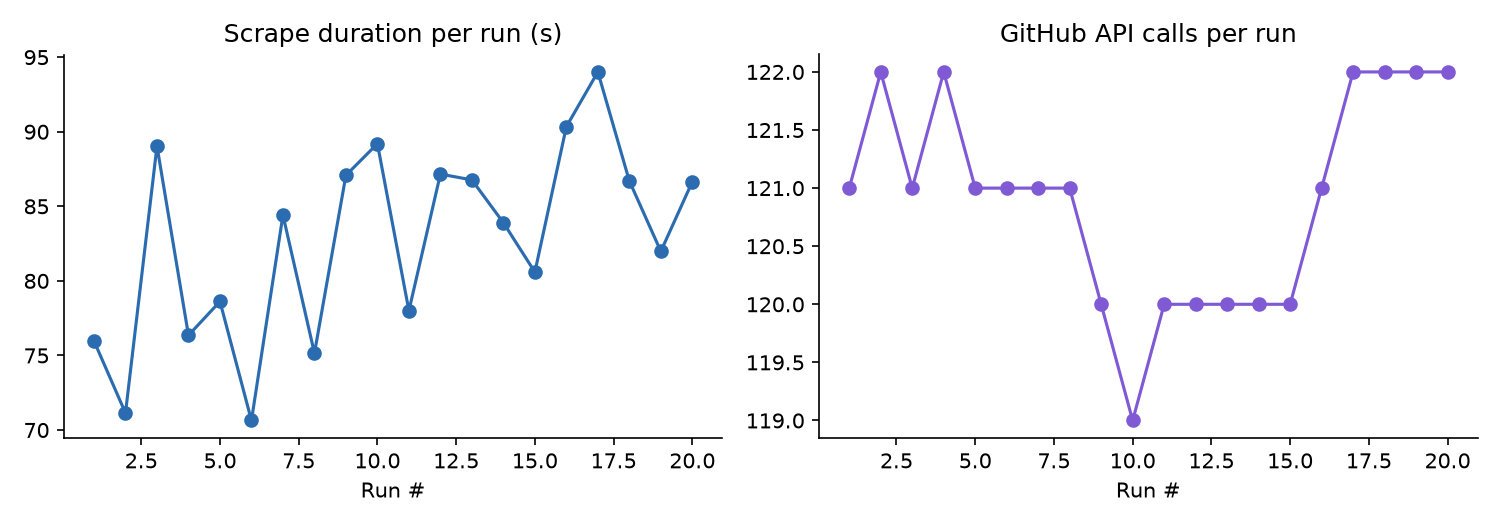
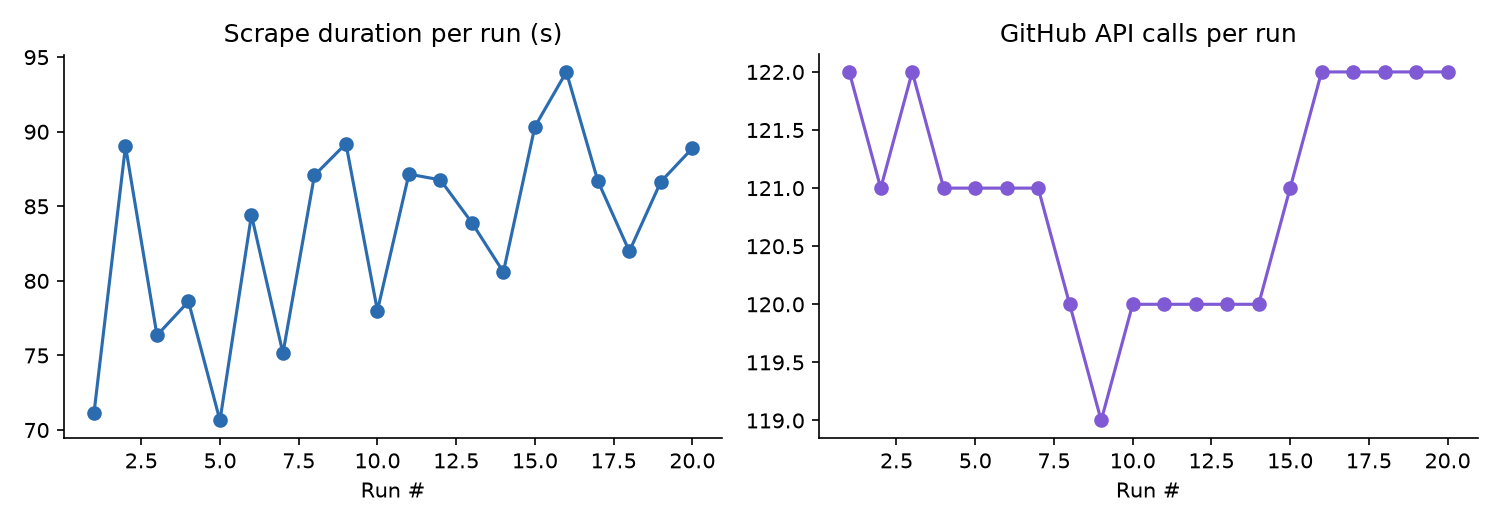
Weekly issue tracker refresh

diff --git a/README.md b/README.md
@@ -81,7 +81,7 @@ See [CONTRIBUTING.md](CONTRIBUTING.md) for the full contributor workflow — inc
 
 <!-- TRACKER:START -->
 
-_Last updated: 2026-11-05 11:34 UTC_
+_Last updated: 2026-11-05 18:56 UTC_
 
 _Tracking **18** upstream repos, **371** relevant open issues._
 
@@ -137,14 +137,14 @@ _Tracking **18** upstream repos, **371** relevant open issues._
 
 | Score | Issue | Labels | Comments | Updated |
 |---|---|---|---|---|
+| ★★☆☆☆ | [#87880](https://github.com/ansible/ansible/issues/87880) `ansible-test sanity --docker --test pylint` crashes on community.general | bug | 3 | 2026-11-05 |
 | ★★☆☆☆ | [#87881](https://github.com/ansible/ansible/issues/87881) ansible.builtin.git: 'NoneType' object has no attribute 'startswith' | module, needs_triage, bug, has_pr, affects_2.21 | 3 | 2026-11-05 |
 | ★★☆☆☆ | [#87031](https://github.com/ansible/ansible/issues/87031) 2.21.0 regresses in sandboxed environments that block Unix-domain socket creation | bug, has_pr, P3, affects_2.21 | 3 | 2026-11-05 |
-| ★★☆☆☆ | [#87880](https://github.com/ansible/ansible/issues/87880) `ansible-test sanity --docker --test pylint` crashes on community.general | bug | 2 | 2026-11-04 |
 | ★★☆☆☆ | [#87865](https://github.com/ansible/ansible/issues/87865) connection_loader, loading Community Plugins raises TypeError | needs_triage, bug, affects_2.21 | 5 | 2026-11-03 |
 | ★★☆☆☆ | [#87820](https://github.com/ansible/ansible/issues/87820) role deduplication not ran with `--skip-tags always` | bug, P3, verified, affects_2.19 | 4 | 2026-11-03 |
 | ★★☆☆☆ | [#87812](https://github.com/ansible/ansible/issues/87812) Ctrl-C is ignored on a new forked worker, the run fails with response "A worker was found in a dead state", continues, or hangs | bug, verified, affects_2.23 | 1 | 2026-11-03 |
+| ★☆☆☆☆ | [#87731](https://github.com/ansible/ansible/issues/87731) ansible-test 2.22 and devel default images have trouble running on GitHub Actions ubuntu-24.04 runners | bug | 26 | 2026-11-05 |
 | ★☆☆☆☆ | [#82408](https://github.com/ansible/ansible/issues/82408) backup option: implement custom naming for files ( ansible_managed like ) | module, has_pr, feature | 11 | 2026-11-05 |
-| ★☆☆☆☆ | [#87731](https://github.com/ansible/ansible/issues/87731) ansible-test 2.22 and devel default images have trouble running on GitHub Actions ubuntu-24.04 runners | bug | 24 | 2026-11-05 |
 
 ### [aws-observability/aws-otel-collector](https://github.com/aws-observability/aws-otel-collector)
 
@@ -223,14 +223,14 @@ _Tracking **18** upstream repos, **371** relevant open issues._
 
 | Score | Issue | Labels | Comments | Updated |
 |---|---|---|---|---|
-| ★★☆☆☆ | [#3758](https://github.com/observIQ/bindplane-otel-collector/issues/3758) AIX supervisor is behind the other platforms | — | 0 | 2026-11-03 |
-| ★★☆☆☆ | [#3757](https://github.com/observIQ/bindplane-otel-collector/issues/3757) Backport the AIX OpAMP exporter change from DBDOT | — | 0 | 2026-11-03 |
+| ★★☆☆☆ | [#3766](https://github.com/observIQ/bindplane-otel-collector/issues/3766) Mirror from DBDOT: feat(aix): include the OpAMP exporter in the AIX build (BP-1566) (#96) | dbdot-mirror-issue | 0 | 2026-11-05 |
 | ★★☆☆☆ | [#3750](https://github.com/observIQ/bindplane-otel-collector/issues/3750) Updater cannot run as a non-root user | — | 0 | 2026-11-03 |
 | ★★☆☆☆ | [#3749](https://github.com/observIQ/bindplane-otel-collector/issues/3749) Package install silently accepts a changed BDOT_UNPRIVILEGED or BDOT_USER on an existing install | — | 0 | 2026-11-03 |
 | ★★☆☆☆ | [#3747](https://github.com/observIQ/bindplane-otel-collector/issues/3747) Mirror from DBDOT: chore: Report `bindplane.session_id` as non-identifying attribute (#81) | — | 0 | 2026-11-02 |
 | ★★☆☆☆ | [#3711](https://github.com/observIQ/bindplane-otel-collector/issues/3711) bindplane-agent_v2 source: self-metrics fail to export to Google Cloud with duplicate server_port / url_scheme labels | — | 0 | 2026-10-21 |
 | ★★☆☆☆ | [#3674](https://github.com/observIQ/bindplane-otel-collector/issues/3674) RPM package fails to install with --prefix: package is not relocatable | — | 0 | 2026-10-01 |
 | ★★☆☆☆ | [#3596](https://github.com/observIQ/bindplane-otel-collector/issues/3596) How to handle process stuck in shutdown. | — | 0 | 2026-08-04 |
+| ★☆☆☆☆ | [#2296](https://github.com/observIQ/bindplane-otel-collector/issues/2296) install_unix.sh breaks with status code 2 in non-interactive environments | — | 4 | 2026-03-04 |
 
 ### [open-telemetry/opentelemetry-collector-contrib](https://github.com/open-telemetry/opentelemetry-collector-contrib)
 
@@ -297,7 +297,7 @@ _Tracking **18** upstream repos, **371** relevant open issues._
 
 <!-- METRICS:START -->
 
-_Last run: 2026-11-05 11:33 UTC, took **86.6s**, **122** GitHub API calls, **4878/5000** rate limit remaining._
+_Last run: 2026-11-05 18:55 UTC, took **88.9s**, **122** GitHub API calls, **4878/5000** rate limit remaining._
 
 ![Scrape metrics trend](assets/metrics_trend.png)
 
